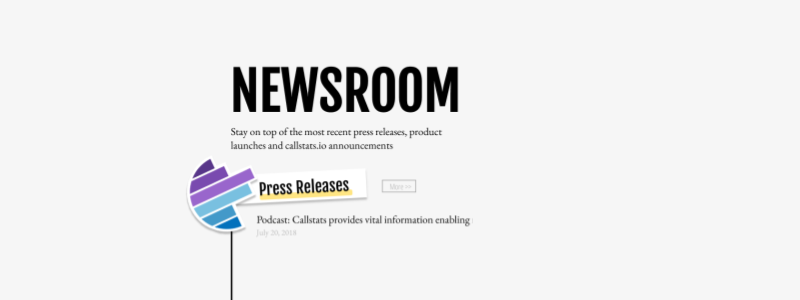
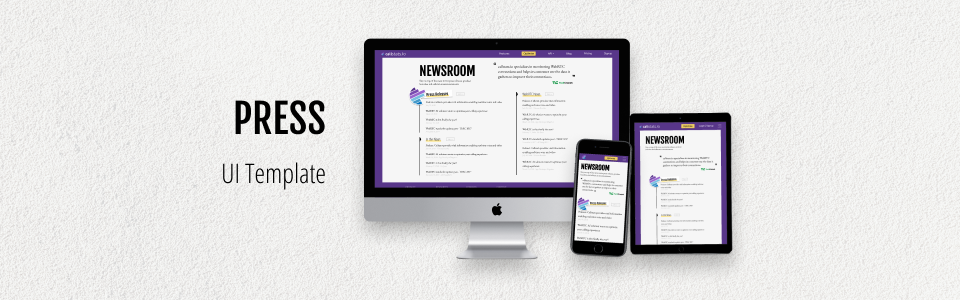
Press, updated img teaser.

Changed region(s): [[0.2188, 0.12, 0.7812, 1.0]]

diff --git a/project/PressWebpage/PressWebpage.html b/project/PressWebpage/PressWebpage.html
@@ -4,7 +4,7 @@
 <head>
     <meta charset="utf-8">
     <title>Press Webpage</title>
-    <meta name="description" content="Mao Yu's portfolio.">
+    <meta name="description" content="Mao Jiayao Yu's portfolio.">
     <link rel="shortcut icon" type="image/png" href="../../img/faviconMao.png" />
     <link rel="apple-touch-icon" type="image/png" href="../../img/faviconMao.png">
     <meta content="width=device-width, initial-scale=1" name="viewport">
@@ -50,14 +50,14 @@
 <body>
     <div class="project-nav w-nav" data-animation="default" data-collapse="none" data-duration="400"><a class="back-arrow w-nav-brand" href="../../index.html"><img height="50" src="../../img/Back_arrow.svg"></a>
         <div class="sm-info">
-            <h1 class="project-name">Press Webpage</h1>
+            <h1 class="project-name">Press UI Template</h1>
             <h5 class="project-role">Web UI/UX Design</h5>
         </div>
     </div>
     <div class="a-project-hero" data-ix="fade-in-on-scroll">
-        <h1 class="a-project-hero-title">Press Webpage</h1>
-        <h2 class="a-project-hero-subtitle">A paper-media-inspired webpage to collectively display the press coverage of a WebRTC company.&nbsp;</h2>
-        <img class="a-project-hero-teaser" src="imgTeaser.jpg" alt=""></div>
+        <h1 class="a-project-hero-title">Press UI Template</h1>
+        <h2 class="a-project-hero-subtitle">A responsive UI template to collectively display the press coverage of a WebRTC startup, inspired by newspaper in the physical world.&nbsp;</h2>
+        <img class="a-project-hero-teaser" src="teaser.png" alt=""></div>
     </div>
     <div data-ix="show-project-nav">
         <div class="no-bottom-pad project-container">
